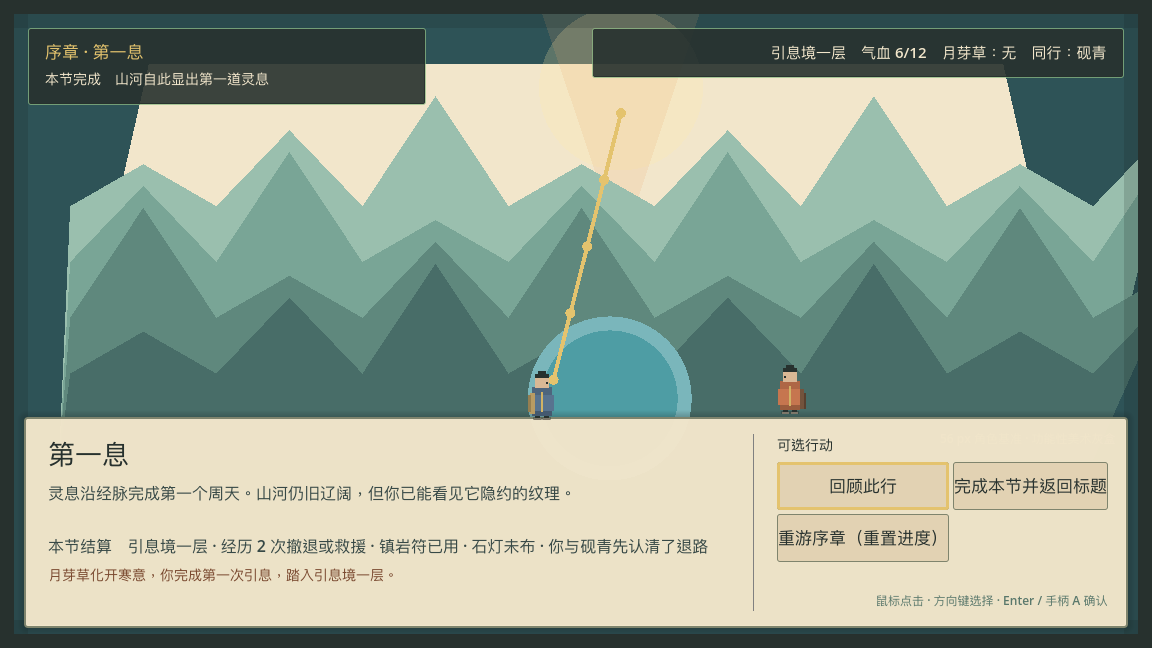
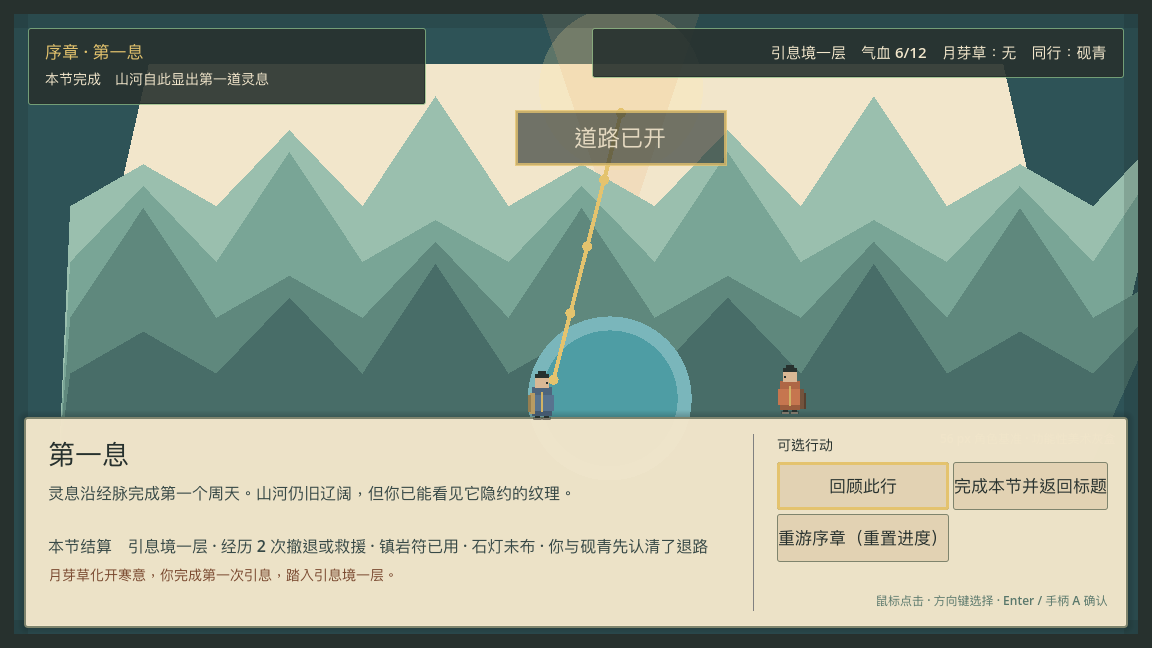
feat: add adjustable battle feedback

Changed region(s): [[0.4375, 0.1543, 0.6562, 0.2778]]

diff --git a/docs/TESTING.md b/docs/TESTING.md
@@ -5,9 +5,9 @@
 | Boundary | Gate | Current result |
 | --- | --- | --- |
 | Deterministic cultivation rules | pytest + branch coverage, minimum 99% | 52 tests; 100% statements and branches |
-| Godot RPG rules and scenes | headless GDScript harness | 383 assertions passing, including shared-resolver boss, two persisted combat states, three regular enemies, intent UI, dialogue, exploration, and save v8 contracts |
+| Godot RPG rules and scenes | headless GDScript harness | 411 assertions passing, including presentation independence, modal layering, shared-resolver boss, persisted combat states, enemies, dialogue, exploration, and save v8 contracts |
 | Godot RPG chapter path | independent headless E2E | 51 checks: dialogue interruption → mountain return → retreat → non-default enemy restore → boss status restore → ending → replay bypass |
-| Godot keyboard/controller path | physical events + focus assertions | 20 checks: title/dialogue confirm → two-map interaction → movement → pause → battle focus |
+| Godot keyboard/controller path | physical events + focus assertions | 22 checks: title/dialogue confirm → movement → pause speed/motion toggles → two-map interaction → battle focus |
 | Godot RPG package | double PCK export + boot smoke | byte-reproducible pack; headless main scene boot passing |
 | Evennia commands and world bootstrap | Evennia isolated database harness | command, localization, and bootstrap integration tests passing |
 | Multiplayer release path | real server, two real Telnet clients | 中文注册 → 登录 → 采药 → 修炼 → 协作 → 突破 → 重连持久化 |

diff --git a/docs/concepts/gameplay-ui-v1/README.md b/docs/concepts/gameplay-ui-v1/README.md
@@ -28,7 +28,8 @@ make capture-rpg-ui
 
 启动先进入中文标题界面，本地存在合法版本化存档时才允许继续；键盘、鼠标和
 手柄共享焦点与确认动作，存档异常会保留原文件并显示原因。原创程序化环境音
-默认关闭，环境音开关和三级音量在标题与暂停界面保持同步并保存到本机。
+默认关闭，环境音开关、三级音量、战斗表现速度和动态简化选项在标题与暂停界面
+保持同步并保存到本机。模态层级被测试锁定，角色精灵与战斗反馈不会穿过纸面按钮。
 
 ![照禾渡口功能性游戏镜头](01-zhaohe-ferry.png)
 
@@ -75,6 +76,10 @@ make capture-rpg-ui
 守巢者在普通敌人退场后沿用同一战斗布局，以更宽的甲片、腹部锈色弧线和三招
 意图循环建立首领辨识。守住重击产生破甲，砚青援护产生凝息；只有存在的状态才
 显示在状态栏，零层效果不会挤占 HUD。两种状态都能随 save v8 精确恢复。
+
+战斗语义事件会在地图上短暂显示“石灯护阵”“识破弱点”“首领现身”等反馈。
+标准模式保留 0.70 秒脉冲，快速模式缩短为 0.18 秒；简化动态改为静态显示。表现
+偏好不阻塞输入，也不参与规则结算，同一行动在两种模式下的完整快照必须一致。
 
 ## 藏泉石室
 

diff --git a/docs/DECISIONS.md b/docs/DECISIONS.md
@@ -126,6 +126,16 @@ sound at runtime through `AudioStreamGenerator`, so no third-party or generated 
 the repository. Versioned settings are stored separately from journey progress; invalid settings
 fall back to silence without affecting the save game.
 
+Settings v2 adds `battle_speed` and `reduced_motion`. V1 audio-only settings migrate to standard
+speed and full motion. Fast mode shortens only the lifetime of semantic feedback; reduced motion
+uses the same static label and border without pulsing. Neither preference is passed into the
+journey domain. A scene test resolves the same action through a feedback-enabled scene and a pure
+domain mirror, then requires byte-for-byte equivalent snapshots.
+
+Modal UI has an explicit rendering hierarchy: dialogue above map actors, title above dialogue,
+and pause above title. This prevents actor sprites and combat feedback from crossing paper panels
+or blocking menu labels as new presentation nodes are added.
+
 ### 2026-08-01 — Reproducible PCK as the overnight delivery boundary
 
 The overnight slice exports a cross-platform Godot resource pack and validates it by two

diff --git a/docs/design/NEXT_PRODUCTION_PLAN_v0.1.md b/docs/design/NEXT_PRODUCTION_PLAN_v0.1.md
@@ -14,7 +14,7 @@
     → 第一次引息 → 章节结算 → 返回标题 / 继续 / 重游
 ```
 
-工程证据包括 383 项 Godot 规则/场景断言、51 项完整章节 E2E、20 项原始键盘/
+工程证据包括 411 项 Godot 规则/场景断言、51 项完整章节 E2E、22 项原始键盘/
 手柄输入与焦点断言、存档 v1–v8 迁移、可复现 PCK 与启动冒烟。现阶段最大缺口
 不再是底层闭环，而是正式地图资产、人物表现、探索密度和内容时长。
 
@@ -122,7 +122,7 @@
 | 9 | 三敌配置与意图 UI（已完成） | 结果不受帧率影响 |
 | 10 | 首领战与结算回声（规则闭环已完成） | 视觉与内容时长仍需扩充到 15–20 分钟 |
 | 11 | 目标平台原生导出 | 干净机启动与续玩通过 |
-| 12 | 视觉、声音、性能与无障碍复核 | PR 全绿并产出候选哈希 |
+| 12 | 视觉、声音、性能与无障碍复核（表现速度/简化动态已完成） | 仍需性能记录与候选哈希 |
 
 每个循环仍执行：小补丁 → 行为测试 → `make check` → 独立 commit → push → PR CI。
 

diff --git a/rpg/README.md b/rpg/README.md
@@ -33,6 +33,11 @@ and pause/resume are exercised as physical input events by `make test-rpg-input`
 由项目 GDScript 在运行时合成，不下载或嵌入第三方音频；偏好独立保存在本机，
 损坏设置会安全回落为静音与 60% 音量，不影响旅程存档。
 
+settings v2 还保存“标准/快速”战斗表现和“完整/简化”动态效果。快速只把语义事件
+反馈从 0.70 秒缩短到 0.18 秒；简化动态保留静态文字与边框，但关闭脉冲。两项设置
+不会进入旅程 domain，也不会改变伤害、回合、意图或存档结果。v1 音频设置自动
+迁移为标准速度与完整动态，键盘、鼠标和手柄均可在标题或暂停页切换。
+
 当前功能性美术灰盒采用明亮的全屏 RPG 镜头。第一套原创、确定性生成的人物图集
 已经锁定 32×56 px 帧、固定脚底锚点、16×20 px 碰撞基准、四方向待机/行走动画、
 最近邻过滤与整数像素对齐，并通过 `AnimatedSprite2D` 驱动主角和砚青。在照禾渡口

diff --git a/README.md b/README.md
@@ -79,8 +79,8 @@ make test-multiplayer-e2e    # live server + real two-client journey only
 ```
 
 The deterministic multiplayer domain rules have an enforced 99% statement/branch minimum and
-currently reach 100%. Godot behavior is covered by 383 headless rule/scene assertions plus an
-independent 51-check chapter E2E and 20-check physical-input/focus path. The MUD adapter has
+currently reach 100%. Godot behavior is covered by 411 headless rule/scene assertions plus an
+independent 51-check chapter E2E and 22-check physical-input/focus path. The MUD adapter has
 isolated Evennia tests, and its release path
 is exercised through two real concurrent Telnet clients. The preserved browser prototype retains
 its own 100% unit result and 53-execution Playwright matrix. See [testing](docs/TESTING.md),
